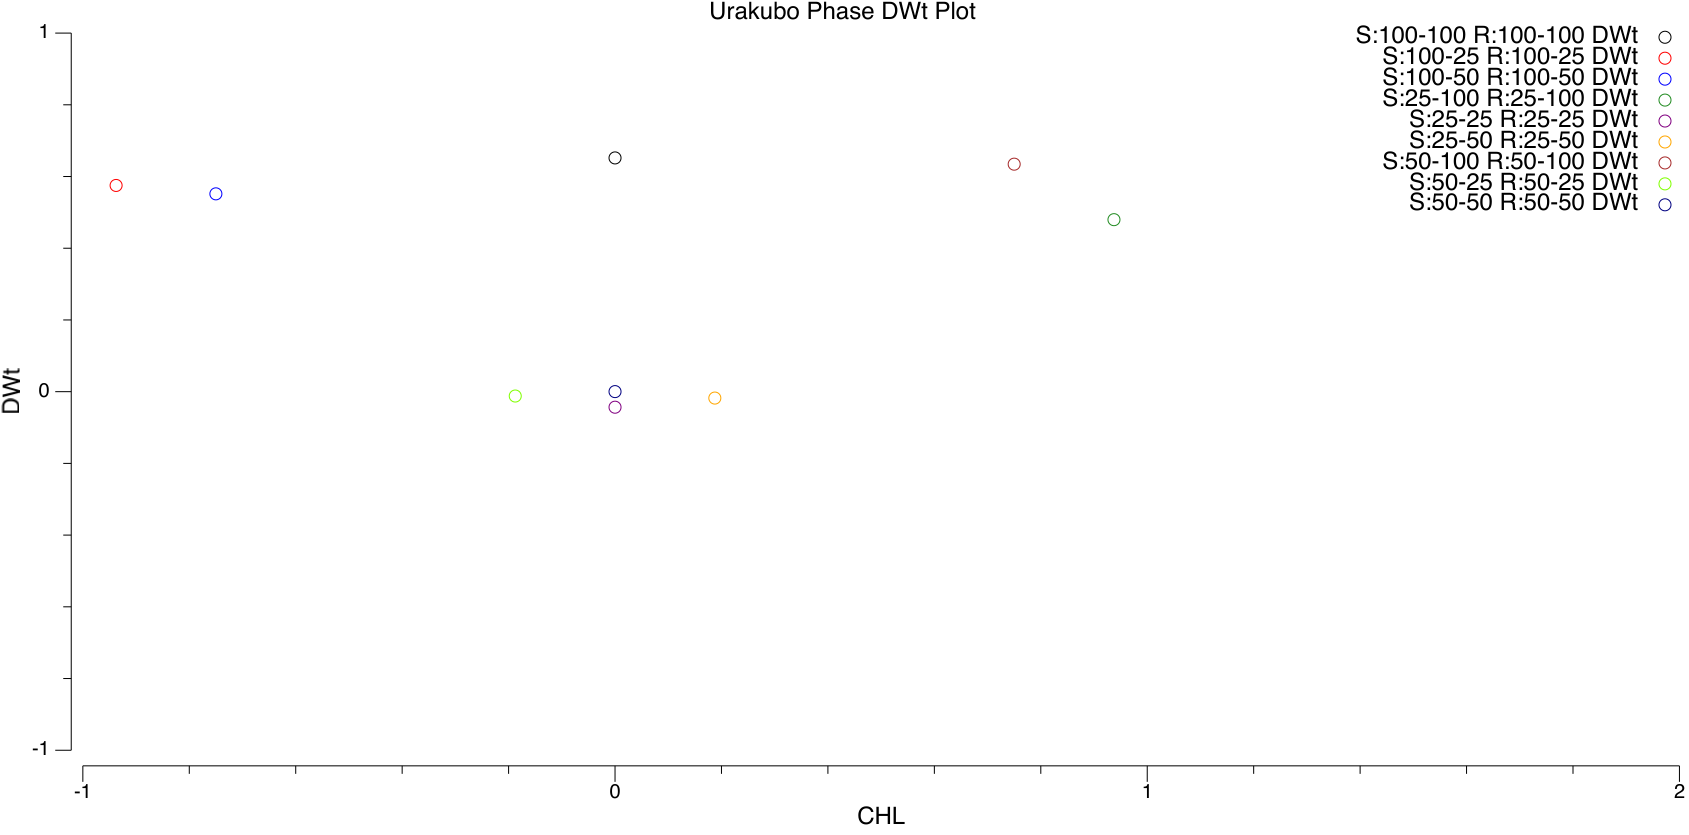
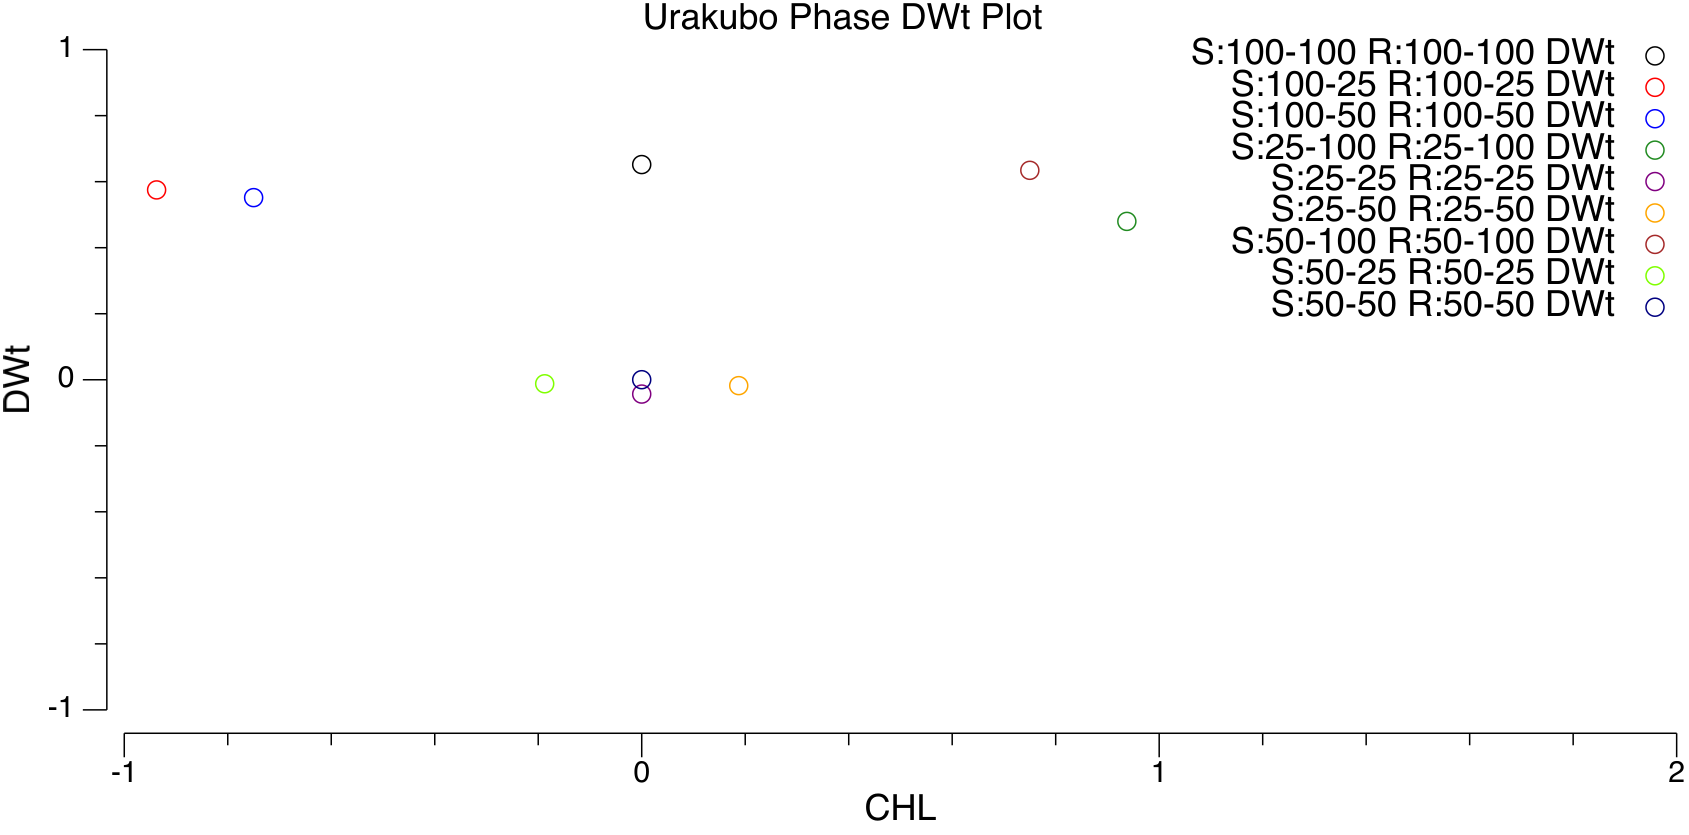
final urakubo fixes

diff --git a/examples/urakubo/urakubo.go b/examples/urakubo/urakubo.go
@@ -642,12 +642,13 @@ func (ss *Sim) ConfigPhaseDWtPlot(plt *eplot.Plot2D, dt *etable.Table) *eplot.Pl
 	plt.Params.Title = "Urakubo Phase DWt Plot"
 	plt.Params.XAxisCol = "CHL"
 	plt.Params.LegendCol = "Cond"
-	plt.Params.Lines = false
-	plt.Params.Points = true
+	plt.Params.Scale = 3
 	plt.SetTable(dt)
+	plt.Params.Points = true
+	plt.Params.Lines = false
 	// order of params: on, fixMin, min, fixMax, max
-	plt.SetColParams("DWt", eplot.On, eplot.FixMin, -0.4, eplot.FixMax, 0.4)
-	plt.SetColParams("CHL", eplot.On, eplot.FixMin, -1, eplot.FixMax, 1)
+	plt.SetColParams("DWt", eplot.On, eplot.FixMin, -1, eplot.FixMax, 1)
+	plt.SetColParams("CHL", eplot.Off, eplot.FixMin, -1, eplot.FixMax, 1)
 
 	return plt
 }

diff --git a/examples/urakubo/README.md b/examples/urakubo/README.md
@@ -2,7 +2,7 @@
 
 This model re-implements the highly biophysically realistic model of spike-timing dependent plasticity from:
 
-* Urakubo, H., Honda, M., Froemke, R. C., & Kuroda, S. (2008). Requirement of an allosteric kinetics of NMDA receptors for spike timing-dependent plasticity. The Journal of Neuroscience, 28(13), 3310–3323. http://www.ncbi.nlm.nih.gov/pubmed/18367598 | [Main PDF](https://github.com/emer/axon/blob/master/examples/urakubo/UrakuboHondaFroemkeEtAl08.pdf) | [Supplemental PDF](https://github.com/emer/axon/blob/master/examples/urakubo/UrakuboHondaFroemkeEtAl08_suppl.pdf) | [Model Details](https://github.com/emer/axon/blob/master/examples/urakubo/UrakuboHondaFroemkeEtAl08_model_sub.pdf) (last one has all the key details but a few typos and the code is needed to get all the details right).
+* Urakubo, H., Honda, M., Froemke, R. C., & Kuroda, S. (2008). Requirement of an allosteric kinetics of NMDA receptors for spike timing-dependent plasticity. The Journal of Neuroscience, 28(13), 3310–3323. http://www.ncbi.nlm.nih.gov/pubmed/18367598 | [Main PDF](https://github.com/emer/axon/blob/master/examples/urakubo/papers/UrakuboHondaFroemkeEtAl08.pdf) | [Supplemental PDF](https://github.com/emer/axon/blob/master/examples/urakubo/papers/UrakuboHondaFroemkeEtAl08_suppl.pdf) | [Model Details](https://github.com/emer/axon/blob/master/examples/urakubo/papers/UrakuboHondaFroemkeEtAl08_model_sub.pdf) (last one has all the key details but a few typos and the code is needed to get all the details right).
 
 This model captures the complex postsynaptic chemical cascades that result in the changing levels of AMPA receptor numbers in the postsynaptic density (PSD) of a spine, as a function of the changing levels of calcium (Ca2+) entering the spine through NMDA and VGCC (voltage-gated calcium) channels.  The model mechanisms are strongly constrained bottom-up by the known kinetics of these chemical processes, and amazingly it captures many experimental results in the LTP / LTD experimental literature.  Thus, it provides an extremely valuable resource for understanding how plasticity works and how realistic but much simpler models can be constructed, which are actually usable in larger-scale simulations.
 
